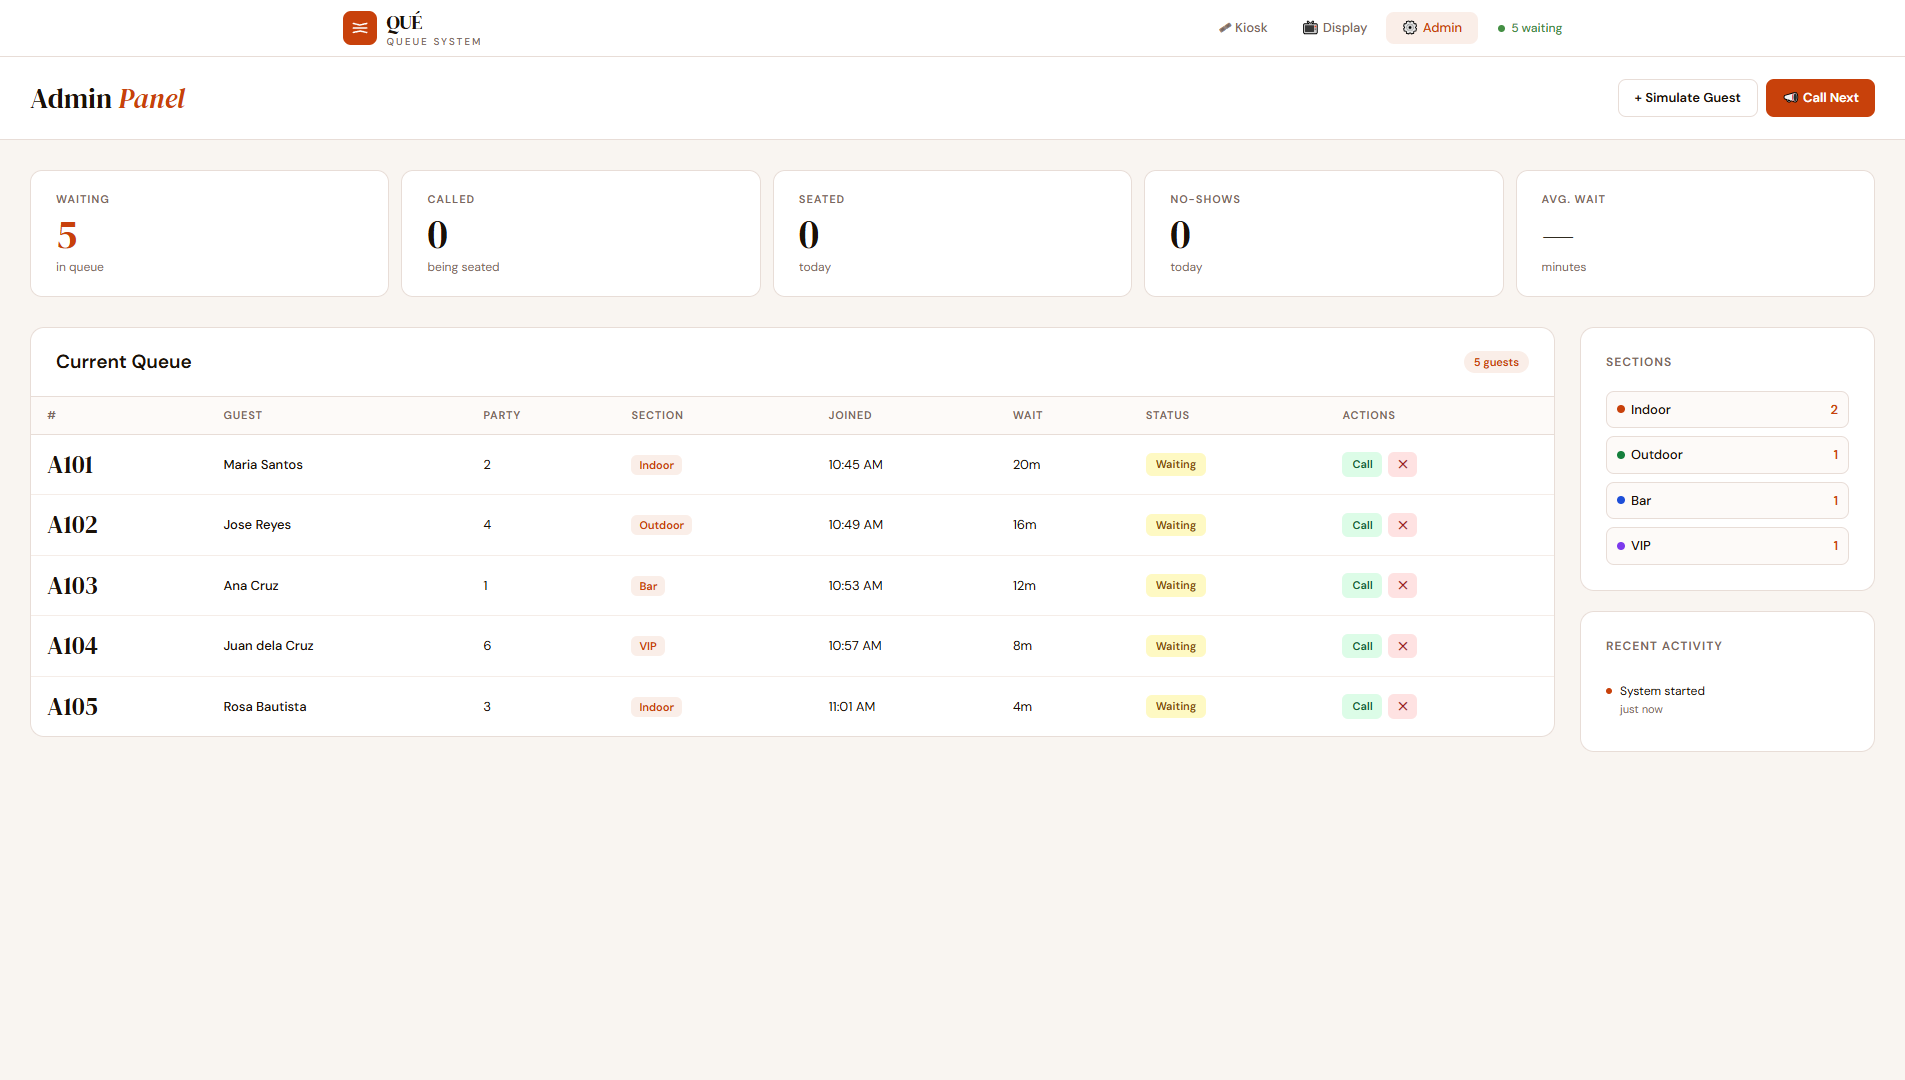
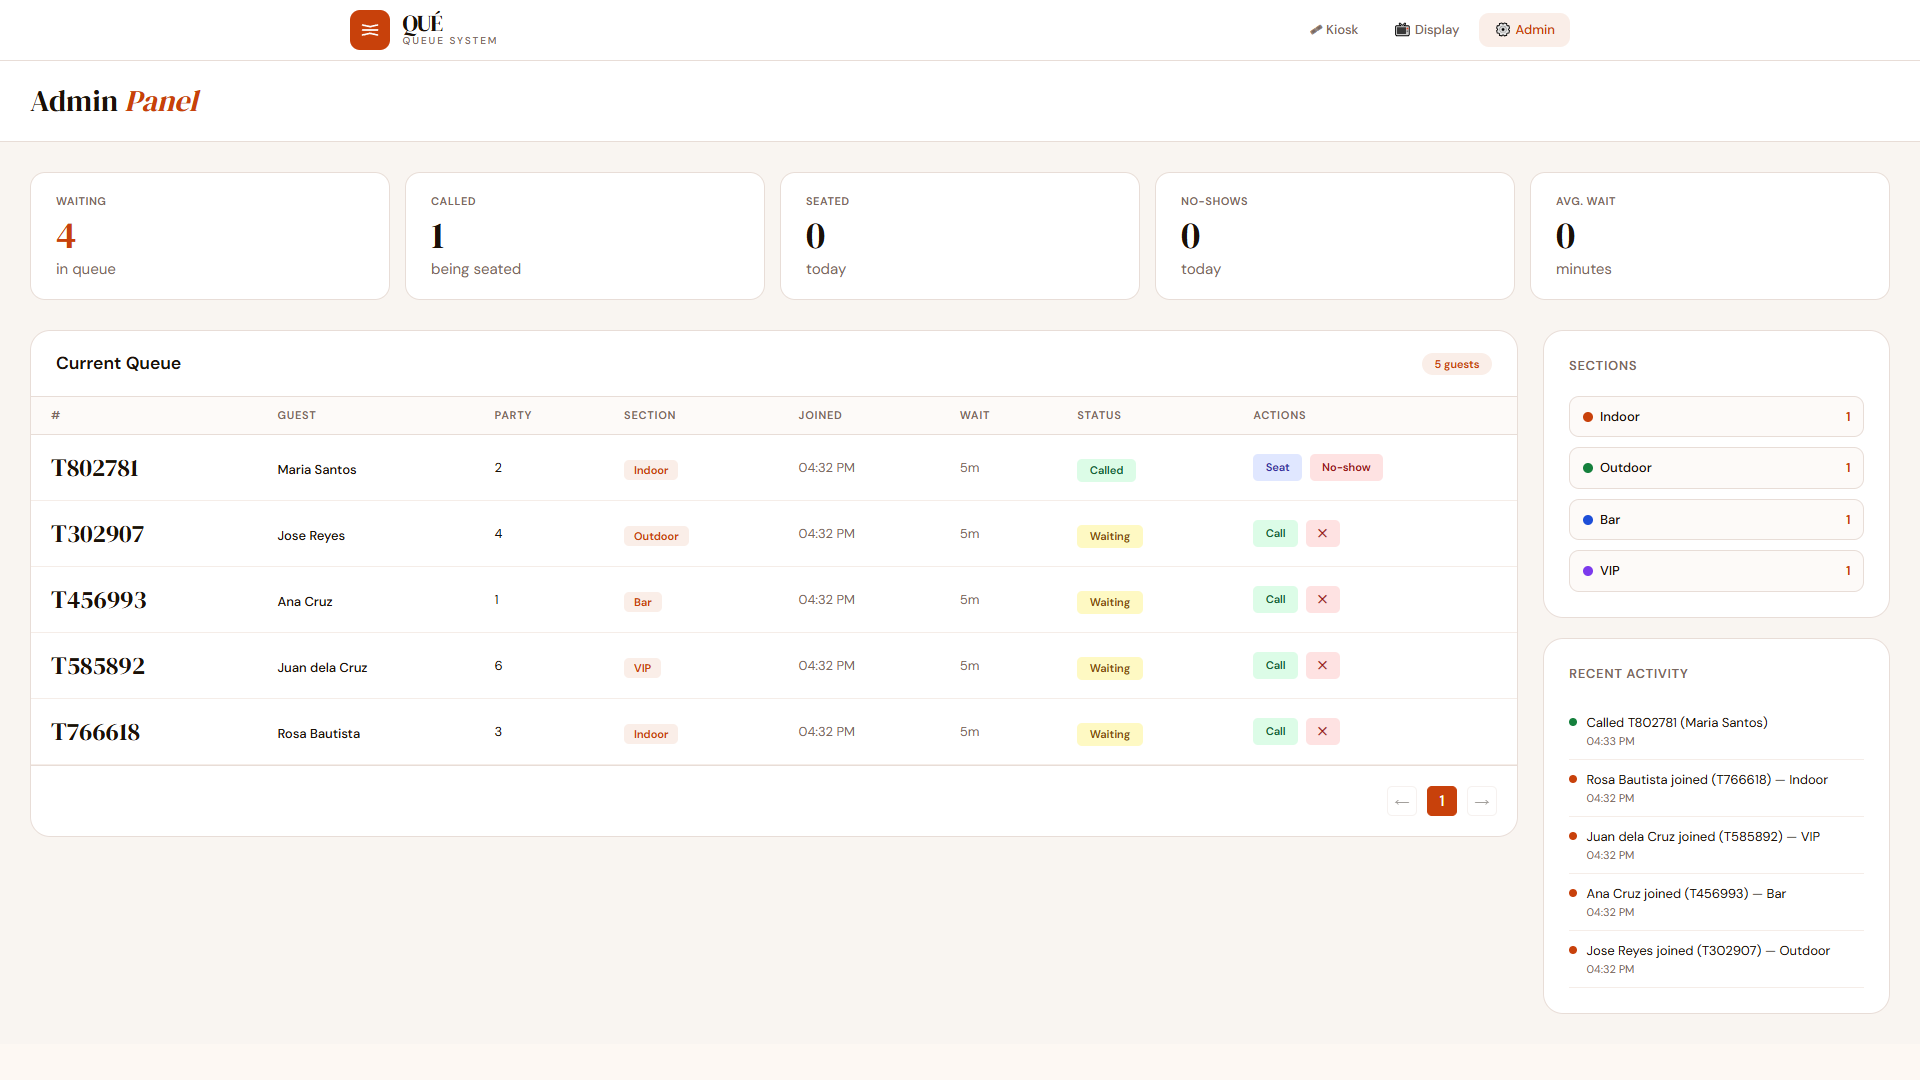
feat: finished Version 1

diff --git a/front-end/src/components/kiosk/Hero.tsx b/front-end/src/components/kiosk/Hero.tsx
@@ -1,6 +1,21 @@
 "use client";
-
+import { useState, useEffect } from "react";
+import { useFetch } from "@/src/hooks/useFetch";
+import { KioskTaskResponse } from "@/src/types/kiosk.types";
 export default function Hero() {
+  const [stats, setStats] = useState<KioskTaskResponse | null>(null);
+
+  const { load: loadStats } = useFetch<KioskTaskResponse>("/kiosk/stats");
+
+  useEffect(() => {
+    const fetchData = async () => {
+      const result = await loadStats();
+      setStats(result);
+    };
+
+    fetchData();
+  }, [loadStats]);
+
   return (
     <>
       {/* HERO */}
@@ -26,19 +41,30 @@ export default function Hero() {
       <div className="bg-brand-dark px-3 sm:px-6 py-3">
         <div className="flex flex-col sm:flex-row items-center justify-center gap-2 sm:gap-8 text-center">
           <div className="flex items-center gap-2 text-white text-xs sm:text-sm">
-            Now serving: <span className="font-semibold">—</span>
+            Now serving:{" "}
+            <span className="font-semibold">
+              {stats?.data.nowServing ?? " — "}
+            </span>
           </div>
 
           <div className="hidden sm:block w-px h-3 bg-white/40"></div>
 
           <div className="flex items-center gap-2 text-white text-xs sm:text-sm">
-            Waiting: <span className="font-semibold">0</span>
+            Waiting:{" "}
+            <span className="font-semibold">{stats?.data.waiting ?? 0}</span>
           </div>
 
           <div className="hidden sm:block w-px h-3 bg-white/40"></div>
 
           <div className="flex items-center gap-2 text-white text-xs sm:text-sm">
-            Est. wait: <span className="font-semibold">—</span>
+            Est. wait:{" "}
+            <span className="font-semibold">
+              {stats?.data.estimatedWaitMinutes != null
+                ? `${stats.data.estimatedWaitMinutes} ${
+                    stats.data.estimatedWaitMinutes === 1 ? "minute" : "minutes"
+                  }`
+                : "—"}
+            </span>
           </div>
         </div>
       </div>

diff --git a/front-end/src/components/display/UpNext.tsx b/front-end/src/components/display/UpNext.tsx
@@ -37,7 +37,7 @@ export default function UpNext() {
           items.map((g) => (
             <div
               key={g.ticketNumber}
-              className="bg-white/5 border border-white/10 rounded-[14px] p-3 sm:p-4"
+              className="bg-white/5 border border-white/10 max-h-40 rounded-[14px] p-3 sm:p-4"
             >
               {/* TICKET */}
               <div className="font-serif text-xl sm:text-2xl text-white leading-none">

diff --git a/front-end/src/types/kiosk.types.ts b/front-end/src/types/kiosk.types.ts
@@ -1,3 +1,16 @@
+// Response Item
+export interface KioskTaskItem {
+  nowServing: number;
+  waiting: number;
+  estimatedWaitMinutes: number;
+}
+
+// Response
+export interface KioskTaskResponse {
+  message: string;
+  data: KioskTaskItem;
+}
+
 // Request
 export interface CreateTicketRequest {
   partySize: number;
